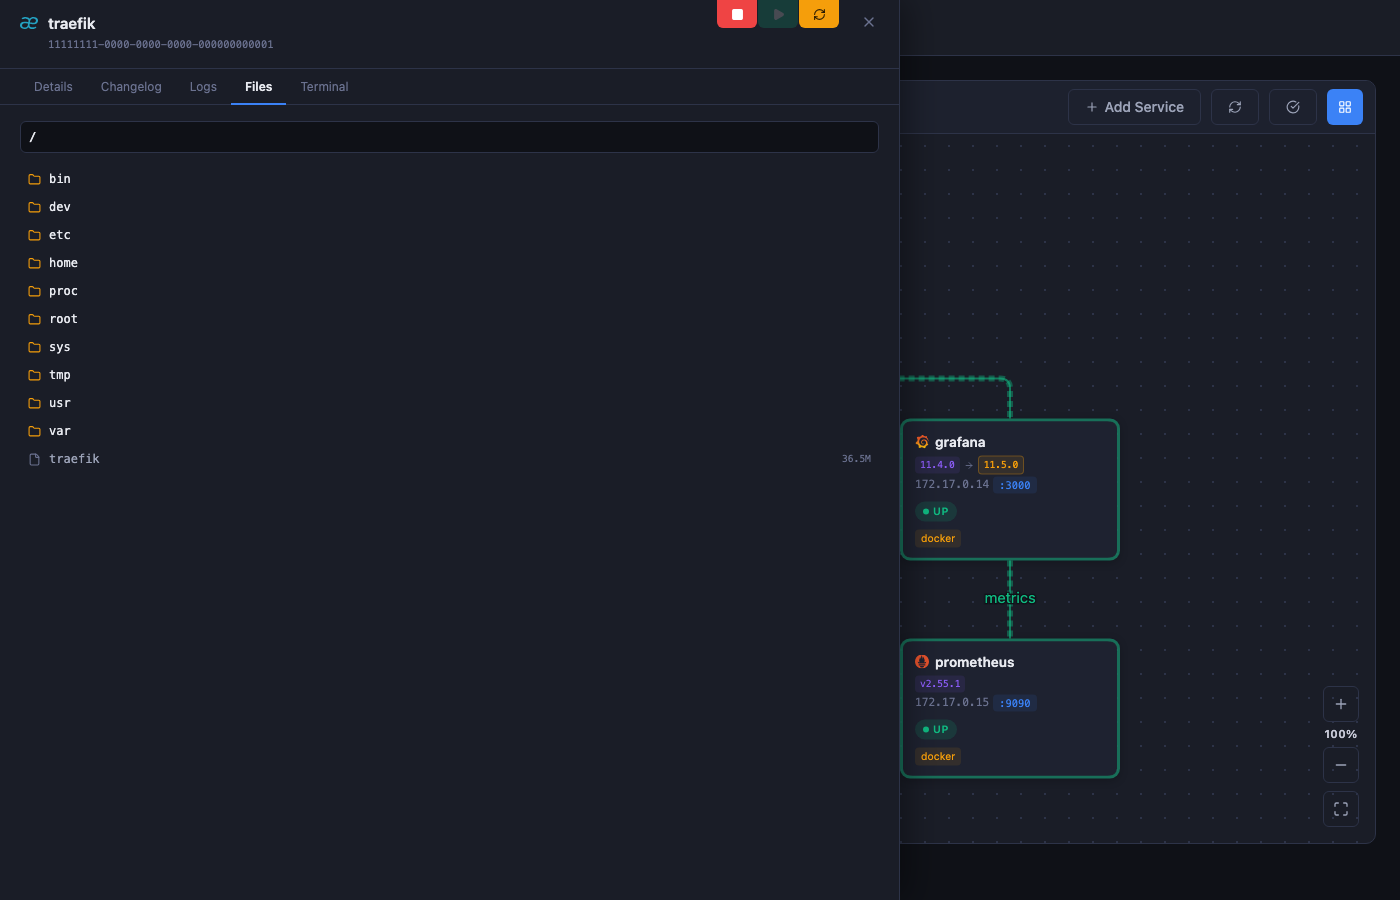
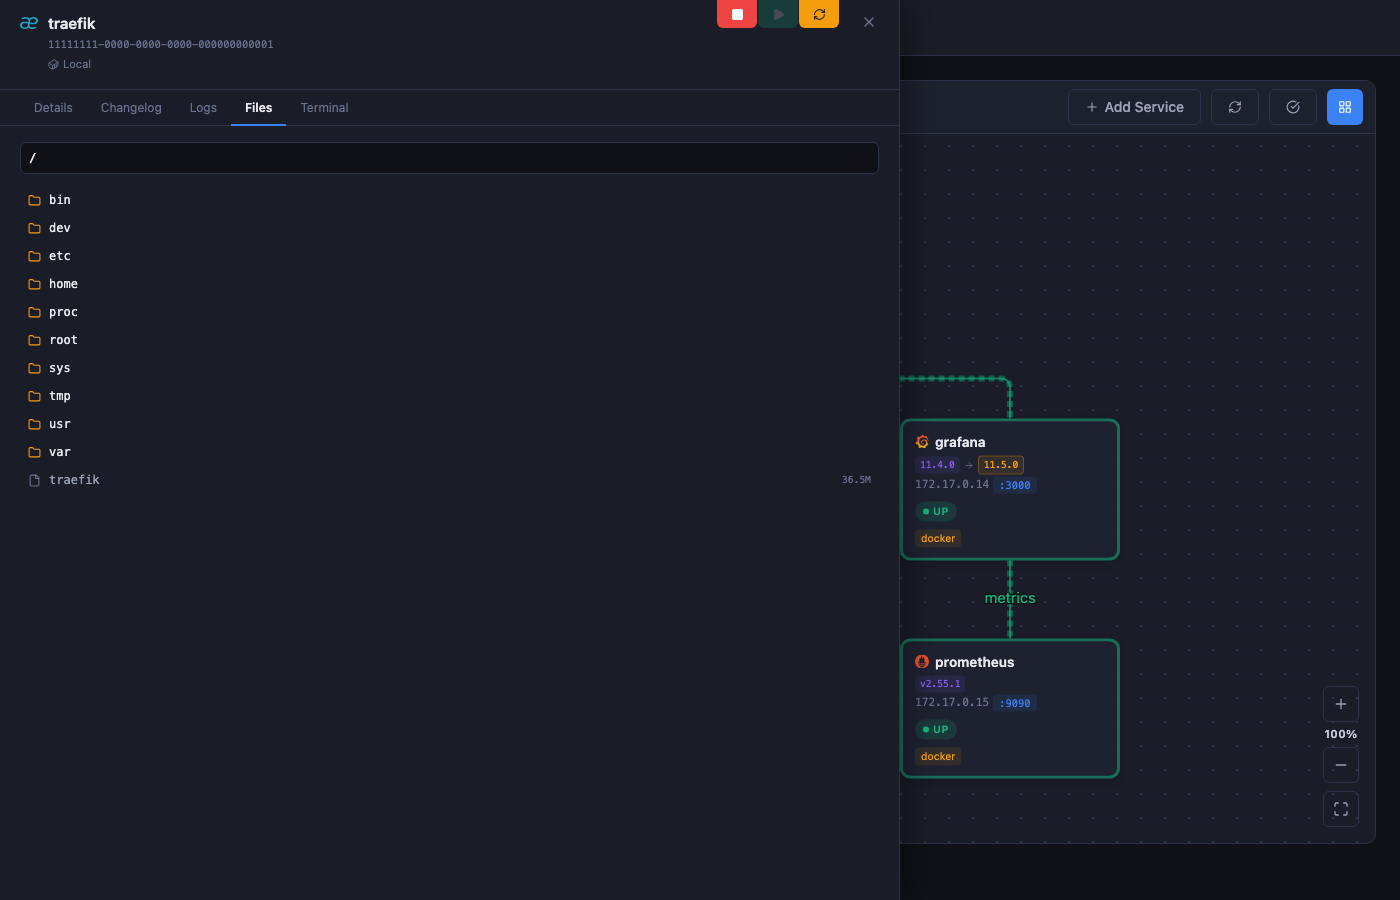
feat: refine service label presentation

Changed region(s): [[0.0, 0.1867, 0.0614, 0.56], [0.0, 0.0622, 0.2764, 0.1244]]

diff --git a/src/client/src/pages/Services.tsx b/src/client/src/pages/Services.tsx
@@ -23,7 +23,7 @@ import { ServiceDrawer } from "../components/modals/ServiceDrawer";
 import { useCertificateHealth } from "../context/CertificateHealthContext";
 import { useConfig } from "../context/ConfigContext";
 import { useServices } from "../hooks/useData";
-import { getServiceLabelColorClass } from "../lib/serviceLabelColors";
+import { getServiceLabelColorStyle } from "../lib/serviceLabelColors";
 
 type SourceFilter = "all" | ServiceSource;
 type StatusFilter = "all" | ServiceStatus;
@@ -237,7 +237,6 @@ export default function Services() {
                   value={sort}
                   onChange={setSort}
                 />
-                <th className="px-4 py-2.5 font-medium">{t("services.colLabels")}</th>
                 <SortHeader
                   col="host"
                   label={t("services.colHost")}
@@ -284,6 +283,7 @@ export default function Services() {
                     },
                   ]}
                 />
+                <th className="px-4 py-2.5 font-medium">{t("services.colLabels")}</th>
                 <th
                   className="px-4 py-2.5 font-medium w-32"
                   aria-label={t("services.colDashboard")}
@@ -337,34 +337,6 @@ export default function Services() {
                         {service.name}
                       </span>
                     </td>
-                    <td
-                      className="px-4 py-3"
-                      title={service.labels?.length ? service.labels.join(", ") : undefined}
-                    >
-                      {service.labels?.length ? (
-                        <div className="flex max-w-64 flex-wrap gap-1">
-                          {service.labels.slice(0, 3).map((label) => (
-                            <Badge
-                              key={label.toLocaleLowerCase()}
-                              variant="outline"
-                              className={cn(
-                                "max-w-28 truncate font-normal",
-                                getServiceLabelColorClass(label),
-                              )}
-                            >
-                              {label}
-                            </Badge>
-                          ))}
-                          {service.labels.length > 3 && (
-                            <Badge variant="outline" className="font-normal">
-                              +{service.labels.length - 3}
-                            </Badge>
-                          )}
-                        </div>
-                      ) : (
-                        <span className="font-mono text-xs text-muted-foreground">—</span>
-                      )}
-                    </td>
                     <td className="px-4 py-3 font-mono text-xs text-secondary-foreground">
                       <ServiceHost service={service} />
                     </td>
@@ -414,6 +386,32 @@ export default function Services() {
                                 {latestVersion ?? t("services.updateBadge")}
                               </span>
                             </>
+                          )}
+                        </div>
+                      ) : (
+                        <span className="font-mono text-xs text-muted-foreground">—</span>
+                      )}
+                    </td>
+                    <td
+                      className="px-4 py-3"
+                      title={service.labels?.length ? service.labels.join(", ") : undefined}
+                    >
+                      {service.labels?.length ? (
+                        <div className="flex max-w-64 flex-wrap gap-1">
+                          {service.labels.slice(0, 3).map((label) => (
+                            <Badge
+                              key={label.toLocaleLowerCase()}
+                              variant="outline"
+                              style={getServiceLabelColorStyle(label)}
+                              className="max-w-28 truncate font-normal"
+                            >
+                              {label}
+                            </Badge>
+                          ))}
+                          {service.labels.length > 3 && (
+                            <Badge variant="outline" className="font-normal">
+                              +{service.labels.length - 3}
+                            </Badge>
                           )}
                         </div>
                       ) : (

diff --git a/scripts/take-screenshots.ts b/scripts/take-screenshots.ts
@@ -34,6 +34,7 @@ function makeService(
   image: string,
   imageTag: string,
   networks: string[],
+  labels: string[],
 ) {
   return {
     id,
@@ -42,7 +43,9 @@ function makeService(
     ports,
     checkPort: ports[0],
     source: "docker",
+    sourceName: "Local",
     status,
+    labels,
     onDashboard: true,
     metadata: {
       dockerHostId: "local",
@@ -69,6 +72,7 @@ const SERVICES = [
       "traefik",
       "v3.2",
       ["web", "internal"],
+      ["Production", "Edge", "Public"],
     ),
     protocol: "https",
     checkPort: 443,
@@ -85,16 +89,42 @@ const SERVICES = [
     },
   },
   {
-    ...makeService(IDS.nginx, "nginx", "app.example.com", [80, 443], "up", "nginx", "1.27", [
-      "web",
-    ]),
+    ...makeService(
+      IDS.nginx,
+      "nginx",
+      "app.example.com",
+      [80, 443],
+      "up",
+      "nginx",
+      "1.27",
+      ["web"],
+      ["Production", "Frontend", "Public", "Customer-facing"],
+    ),
     protocol: "https",
     checkPort: 443,
   },
-  makeService(IDS.postgres, "postgres", "172.17.0.12", [5432], "up", "postgres", "17", [
-    "internal",
-  ]),
-  makeService(IDS.redis, "redis", "172.17.0.13", [6379], "up", "redis", "7", ["internal"]),
+  makeService(
+    IDS.postgres,
+    "postgres",
+    "172.17.0.12",
+    [5432],
+    "up",
+    "postgres",
+    "17",
+    ["internal"],
+    ["Production", "Database", "Internal"],
+  ),
+  makeService(
+    IDS.redis,
+    "redis",
+    "172.17.0.13",
+    [6379],
+    "up",
+    "redis",
+    "7",
+    ["internal"],
+    ["Production", "Cache", "Internal"],
+  ),
   {
     ...makeService(
       IDS.grafana,
@@ -105,6 +135,7 @@ const SERVICES = [
       "grafana/grafana",
       "11.4.0",
       ["monitoring", "web"],
+      ["Monitoring", "Internal"],
     ),
     metadata: {
       dockerHostId: "local",
@@ -127,6 +158,7 @@ const SERVICES = [
     "prom/prometheus",
     "v2.55.1",
     ["monitoring"],
+    ["Monitoring", "Metrics", "Internal"],
   ),
 ];
 
@@ -516,6 +548,11 @@ async function main() {
 
     if (p === "/api/services") return route.fulfill({ json: SERVICES });
 
+    if (p === "/api/labels")
+      return route.fulfill({
+        json: [...new Set(SERVICES.flatMap(({ labels }) => labels))].sort(),
+      });
+
     if (p === "/api/dashboard") return route.fulfill({ json: DASHBOARD });
 
     if (p === "/api/serviceStatuses")
@@ -526,7 +563,7 @@ async function main() {
         json: [
           {
             id: "local",
-            name: "Local Docker",
+            name: "Local",
             host: "unix:///var/run/docker.sock",
             connected: true,
             containers: 6,

diff --git a/src/client/src/lib/serviceLabelColors.ts b/src/client/src/lib/serviceLabelColors.ts
@@ -1,15 +1,12 @@
+import type { CSSProperties } from "react";
+
 import { normalizeServiceLabel } from "@shared";
 
-const SERVICE_LABEL_COLOR_CLASSES = [
-  "border-accent-blue/30 bg-accent-blue/10 text-accent-blue",
-  "border-accent-green/30 bg-accent-green/15 text-accent-green",
-  "border-accent-purple/30 bg-accent-purple/10 text-accent-purple",
-  "border-accent-yellow/30 bg-accent-yellow/10 text-accent-yellow",
-  "border-accent-red/30 bg-accent-red/15 text-accent-red",
-  "border-accent-cyan/30 bg-accent-cyan/10 text-accent-cyan",
-] as const;
+export type ServiceLabelColorStyle = CSSProperties & {
+  "--service-label-color": string;
+};
 
-export function getServiceLabelColorClass(label: string): string {
+function hashLabel(label: string): number {
   let hash = 2166136261;
 
   for (const character of normalizeServiceLabel(label)) {
@@ -17,5 +14,28 @@ export function getServiceLabelColorClass(label: string): string {
     hash = Math.imul(hash, 16777619);
   }
 
-  return SERVICE_LABEL_COLOR_CLASSES[(hash >>> 0) % SERVICE_LABEL_COLOR_CLASSES.length];
+  // Avalanche the FNV result so hue, lightness, and chroma use well-mixed bits.
+  hash ^= 0x000285d1;
+  hash ^= hash >>> 16;
+  hash = Math.imul(hash, 0x85ebca6b);
+  hash ^= hash >>> 13;
+  hash = Math.imul(hash, 0xc2b2ae35);
+  hash ^= hash >>> 16;
+
+  return hash >>> 0;
+}
+
+export function getServiceLabelColorStyle(label: string): ServiceLabelColorStyle {
+  const hash = hashLabel(label);
+  const hue = hash % 360;
+  const lightness = 62 + ((hash >>> 9) % 17);
+  const chroma = (0.15 + ((hash >>> 17) % 8) / 100).toFixed(2);
+  const color = `oklch(${lightness}% ${chroma} ${hue})`;
+
+  return {
+    "--service-label-color": color,
+    color: "color-mix(in oklch, var(--service-label-color) 75%, var(--foreground))",
+    backgroundColor: "color-mix(in srgb, var(--service-label-color) 16%, transparent)",
+    borderColor: "color-mix(in srgb, var(--service-label-color) 45%, transparent)",
+  };
 }

diff --git a/src/client/src/tests/lib/serviceLabelColors.test.ts b/src/client/src/tests/lib/serviceLabelColors.test.ts
@@ -1,22 +1,42 @@
 import { describe, expect, it } from "vitest";
 
-import { getServiceLabelColorClass } from "../../lib/serviceLabelColors";
+import { getServiceLabelColorStyle } from "../../lib/serviceLabelColors";
 
 describe("service label colors", () => {
   it("keeps a label's color stable and case-insensitive", () => {
-    const color = getServiceLabelColorClass("Production");
+    const color = getServiceLabelColorStyle("Production");
 
-    expect(getServiceLabelColorClass("Production")).toBe(color);
-    expect(getServiceLabelColorClass(" production ")).toBe(color);
+    expect(getServiceLabelColorStyle("Production")).toEqual(color);
+    expect(getServiceLabelColorStyle(" production ")).toEqual(color);
   });
 
-  it("distributes label names across the color palette", () => {
+  it("generates a distinct base color for representative labels", () => {
+    const labels = [
+      "Production",
+      "Backend",
+      "Database",
+      "Monitoring",
+      "Internal",
+      "Public",
+      "Edge",
+      "Frontend",
+      "Customer-facing",
+      "Cache",
+      "Metrics",
+    ];
     const colors = new Set(
-      ["Production", "Backend", "Database", "Monitoring", "Internal", "Public"].map(
-        getServiceLabelColorClass,
-      ),
+      labels.map((label) => getServiceLabelColorStyle(label)["--service-label-color"]),
     );
+    const hues = [...colors]
+      .map((color) => Number(color.match(/ ([0-9]+)\)$/)?.[1]))
+      .sort((a, b) => a - b);
+    const hueGaps = hues.map((hue, index) => {
+      const nextHue = hues[index + 1] ?? hues[0] + 360;
 
-    expect(colors.size).toBeGreaterThan(1);
+      return nextHue - hue;
+    });
+
+    expect(colors.size).toBe(labels.length);
+    expect(Math.min(...hueGaps)).toBeGreaterThanOrEqual(25);
   });
 });

diff --git a/src/client/src/components/ServiceLabelInput.tsx b/src/client/src/components/ServiceLabelInput.tsx
@@ -3,7 +3,7 @@ import { useTranslation } from "react-i18next";
 
 import { normalizeServiceLabel, SERVICE_LABEL_MAX_COUNT, SERVICE_LABEL_MAX_LENGTH } from "@shared";
 
-import { getServiceLabelColorClass } from "@/lib/serviceLabelColors";
+import { getServiceLabelColorStyle } from "@/lib/serviceLabelColors";
 import { cn } from "@/lib/utils";
 
 import { Icons } from "./Icons";
@@ -104,10 +104,8 @@ export function ServiceLabelInput({ values, suggestions, onChange }: ServiceLabe
           {values.map((value) => (
             <span
               key={normalizeServiceLabel(value)}
-              className={cn(
-                "flex items-center gap-1.5 rounded-full border px-3 py-1 text-[0.8rem]",
-                getServiceLabelColorClass(value),
-              )}
+              style={getServiceLabelColorStyle(value)}
+              className="flex items-center gap-1.5 rounded-full border px-3 py-1 text-[0.8rem]"
             >
               {value}
               <button

diff --git a/src/server/tests/routes/discovery.test.ts b/src/server/tests/routes/discovery.test.ts
@@ -93,7 +93,7 @@ describe("GET /api/docker/health", () => {
     mockDockerService.createDockerClients.mockReturnValue([
       {
         id: "local-id",
-        name: "Local Docker",
+        name: "Local",
         host: "unix:///var/run/docker.sock",
         docker: mockDocker,
       },
@@ -105,7 +105,7 @@ describe("GET /api/docker/health", () => {
     expect(Array.isArray(res.body)).toBe(true);
     expect(res.body[0]).toMatchObject({
       id: "local-id",
-      name: "Local Docker",
+      name: "Local",
       host: "unix:///var/run/docker.sock",
       connected: true,
       containers: 5,

diff --git a/src/server/tests/routes/system.test.ts b/src/server/tests/routes/system.test.ts
@@ -5,8 +5,8 @@ import { beforeEach, describe, expect, it, vi } from "vitest";
 const mockConfig = vi.hoisted(() => ({
   appVersion: "1.0.0",
   dockerHosts: ["unix:///var/run/docker.sock"],
-  dockerHostEntries: ["Local Docker=unix:///var/run/docker.sock"],
-  dockerHostConfigs: [{ name: "Local Docker", host: "unix:///var/run/docker.sock" }],
+  dockerHostEntries: ["Local=unix:///var/run/docker.sock"],
+  dockerHostConfigs: [{ name: "Local", host: "unix:///var/run/docker.sock" }],
   networkCidrs: ["192.168.0.0/24"],
   healthCheckInterval: 30000,
   updateCheckInterval: 3600000,

diff --git a/src/server/services/mock/mockDockerRuntime.ts b/src/server/services/mock/mockDockerRuntime.ts
@@ -175,7 +175,7 @@ export class MockDockerRuntime extends DockerRuntime {
   }
 
   override createDockerClients(): { id: string; name: string; host: string; docker: Docker }[] {
-    return [{ id: MOCK_HOST_ID, name: "Local Docker", host: MOCK_HOST, docker: stubDockerClient }];
+    return [{ id: MOCK_HOST_ID, name: "Local", host: MOCK_HOST, docker: stubDockerClient }];
   }
 
   override async *scanDockerContainers(

diff --git a/src/server/lib/config.ts b/src/server/lib/config.ts
@@ -8,7 +8,7 @@ import { logger } from "./logService.js";
 import "dotenv/config";
 
 export const DEFAULT_DOCKER_SOCKET = "unix:///var/run/docker.sock";
-export const DEFAULT_LOCAL_DOCKER_HOST_NAME = "Local Docker";
+export const DEFAULT_LOCAL_DOCKER_HOST_NAME = "Local";
 
 export interface ConfiguredDockerHost {
   name: string;

diff --git a/src/server/tests/lib/config.test.ts b/src/server/tests/lib/config.test.ts
@@ -121,7 +121,7 @@ describe("config", () => {
 
     expect(config.dockerHosts).toEqual(["unix:///var/run/docker.sock", "tcp://remote:2375"]);
     expect(config.dockerHostConfigs[0]).toEqual({
-      name: "Local Docker",
+      name: "Local",
       host: "unix:///var/run/docker.sock",
     });
 
